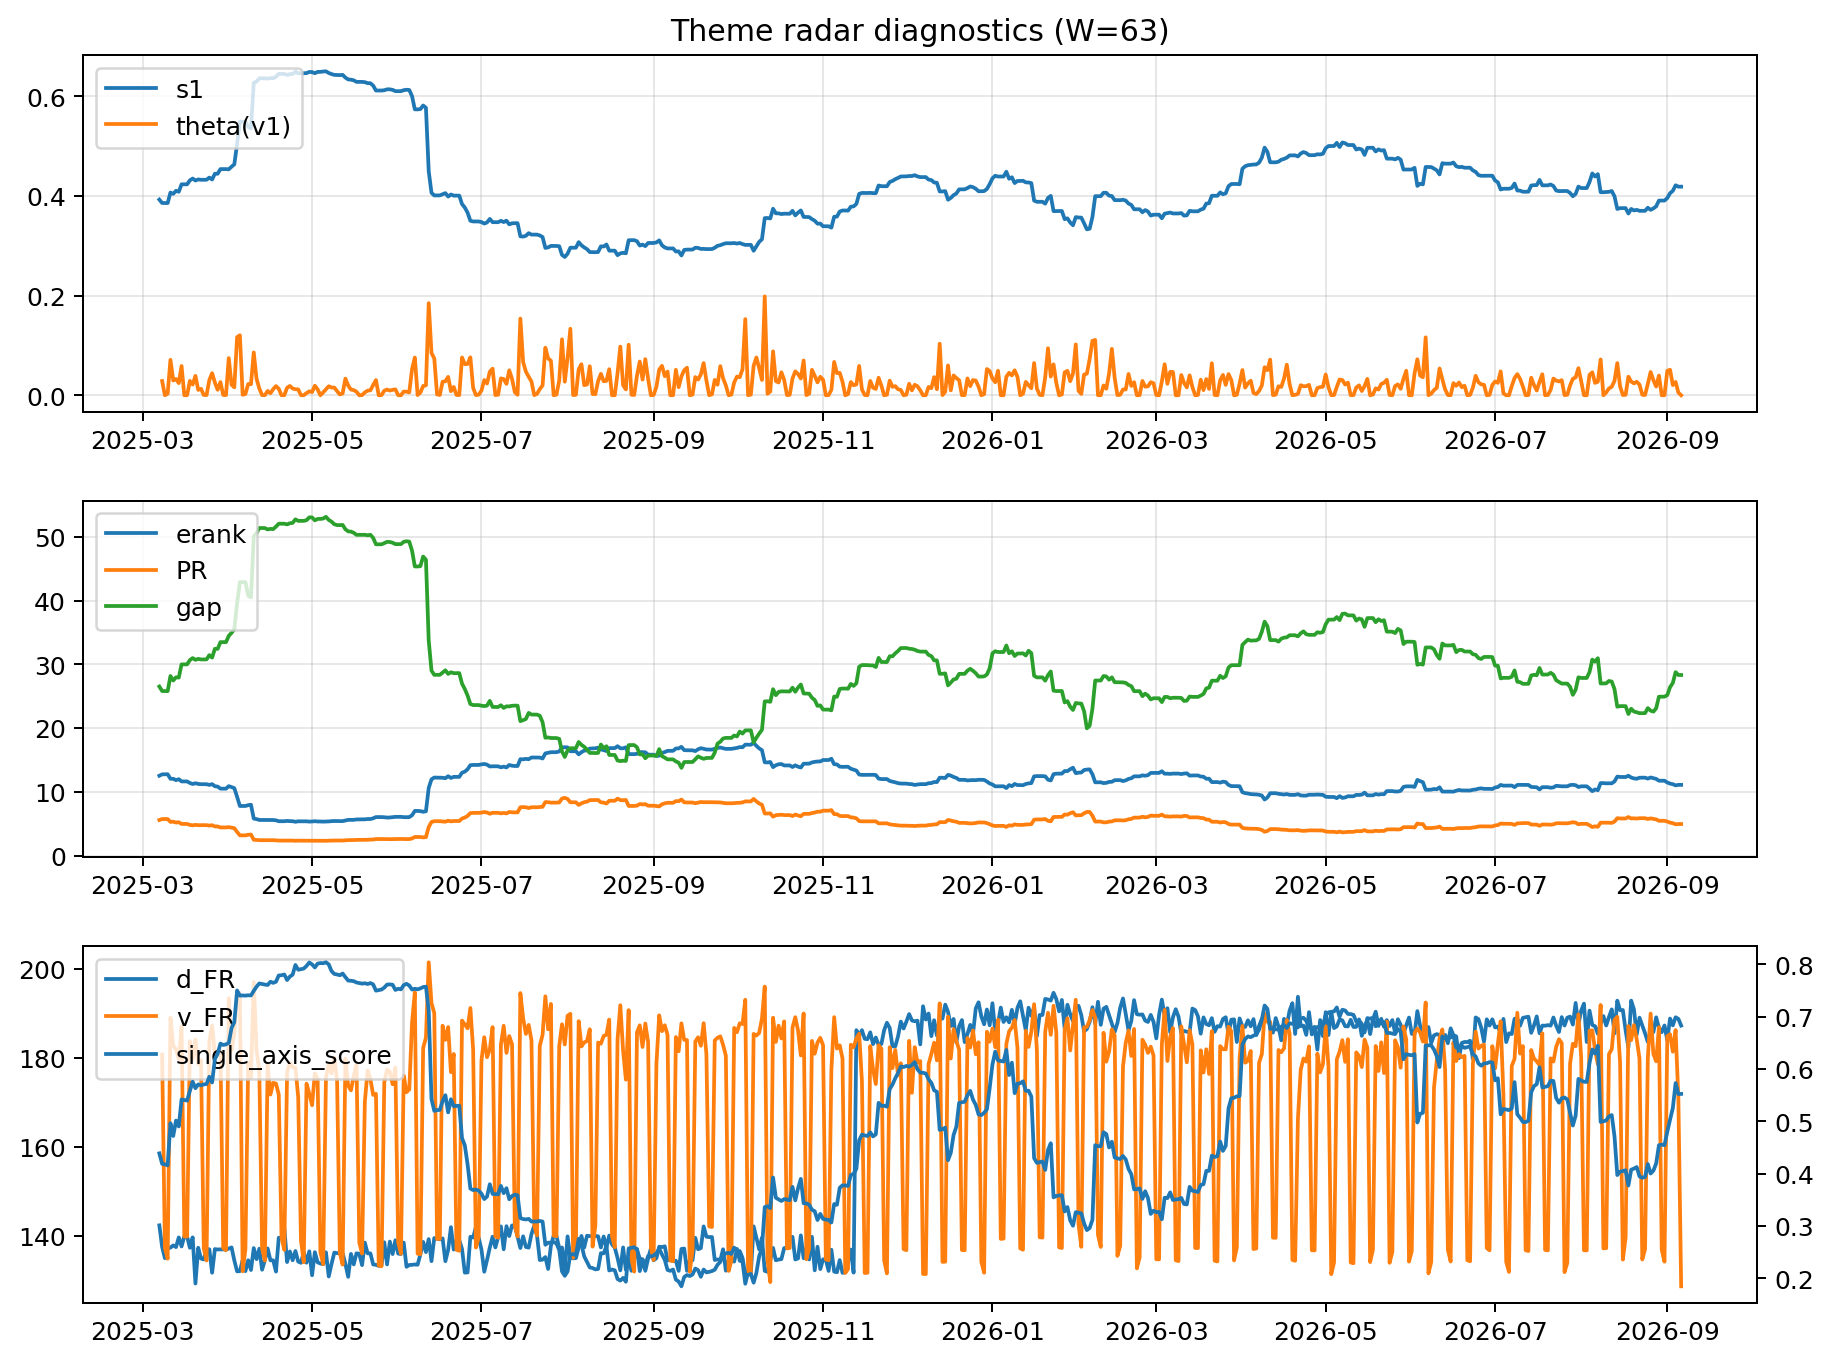
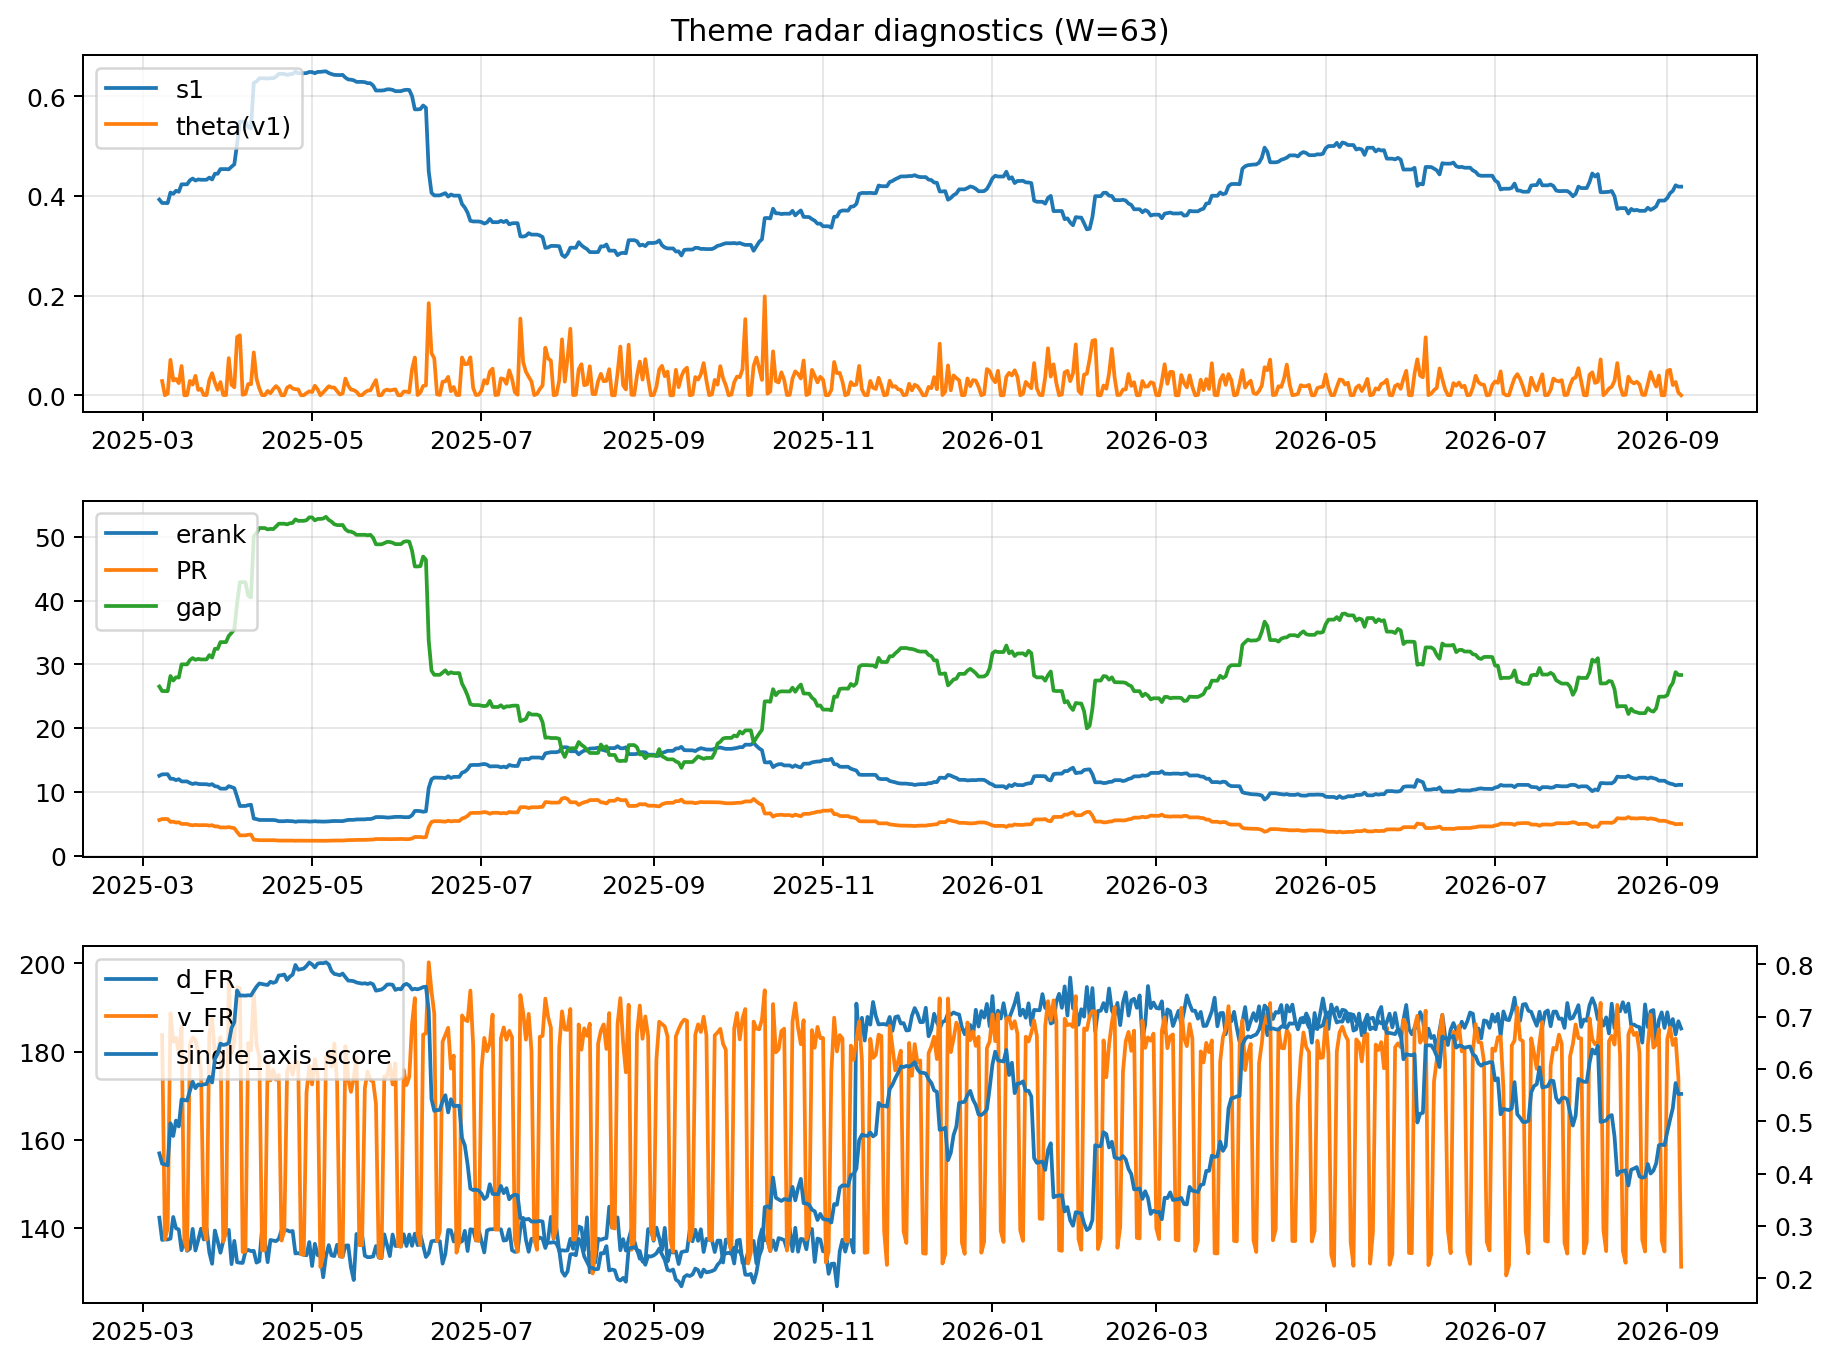
log: 2026-09-06 | sha256:4cf50a2e308836dbc48445426f1648c3ec8e36e9216f673b7a0ab2a0f61a61ea

diff --git a/logs/2026-09-06.md b/logs/2026-09-06.md
@@ -3,43 +3,43 @@
 ![diagnostic W63](../assets/diagnostic/2026-09-06_W63.png)
 
 ## Leaders (v1) — W=63
-- **Nuclear_Uranium** (0.0884435089525409)
-- Semis (0.067931915359482)
-- Quantum (0.0624525389979722)
+- **Nuclear_Uranium** (0.0884435093015129)
+- Semis (0.0679319164227954)
+- Quantum (0.0624525374415206)
 
 ## Challengers — W=63
-**v2:** Rates (0.093168255340313), Semis (0.0786336790402249), Grid_Power (0.0629135273005289)
-**v3:** Genomics_Bio (0.0905224015569938), Crypto (0.0899400462699587), Metals (0.0761947168597265)
+**v2:** Rates (0.0931682491762034), Semis (0.0786336710302143), Grid_Power (0.0629135286537121)
+**v3:** Genomics_Bio (0.0905223971303889), Crypto (0.0899400275894541), Metals (0.0761947075416778)
 
 ## Migration (20D slope) — W=63
 **Top risers:**
-- axis_Rates: 0.0007456879216744
-- axis_Genomics_Bio: 0.0004320920883385
-- axis_DataCenter_Infra: 0.0003380986605601
-- axis_Software_Cloud: 0.000328681760165
-- axis_Space: 0.0003226939690313
-- axis_Commodities: 0.000275209971575
-- axis_Crypto: 0.0001772456716016
-- axis_Drones_Autonomy: 0.0001515309527806
-- axis_Metals: 0.0001139742251837
-- axis_Sector_Fin: 9.525095421784346e-05
+- axis_Rates: 0.0007456899991309
+- axis_Genomics_Bio: 0.0004320920363966
+- axis_DataCenter_Infra: 0.0003380986764784
+- axis_Software_Cloud: 0.0003286817736228
+- axis_Space: 0.0003226940274457
+- axis_Commodities: 0.0002752099438113
+- axis_Crypto: 0.0001772457384148
+- axis_Drones_Autonomy: 0.0001515309068382
+- axis_Metals: 0.000113974238926
+- axis_Sector_Fin: 9.525097689166872e-05
 
 **Top fallers:**
-- axis_Robotics: -0.0001628709875982
-- axis_Equity_ExUS: -0.0001660417038889
-- axis_Equity_US: -0.0001670365294852
-- axis_MegaCap_AI: -0.000167796122596
-- axis_Nuclear_Uranium: -0.0001920984812742
-- axis_Sector_RealEstate: -0.0001991296263266
-- axis_Sector_Health: -0.0002084323027631
-- axis_Critical_Minerals: -0.0002567618477787
-- axis_Grid_Power: -0.0002969588800416
-- axis_Semis: -0.000448651110253
+- axis_Robotics: -0.0001628710317661
+- axis_Equity_ExUS: -0.0001660417424794
+- axis_Equity_US: -0.0001670365539965
+- axis_MegaCap_AI: -0.0001677961221162
+- axis_Nuclear_Uranium: -0.0001920985672222
+- axis_Sector_RealEstate: -0.0001991296796569
+- axis_Sector_Health: -0.00020843233701
+- axis_Critical_Minerals: -0.000256761927353
+- axis_Grid_Power: -0.0002969589622639
+- axis_Semis: -0.0004486512253833
 
 ## Risk line (W=63)
-- s1: 0.4185196875239567
-- theta_v1: 1.3326021061317625e-05
-- v_FR: 128.62041999931714
+- s1: 0.4185196898818255
+- theta_v1: 1.3325904423423268e-05
+- v_FR: 131.11655932093595
 - single_axis_score: 0.5522768670309655
 
 ## Interpretation
@@ -48,7 +48,7 @@
 - Action: Tomorrow watchlist: Rates, Genomics_Bio, DataCenter_Infra, Software_Cloud, Space + v2_top1=Rates
 - Action: Hedge note: normal correlation stability.
 
-- Percentiles (W=63 history): vfr_pct=0.00, theta_pct=0.00, s1_pct=0.56, score_pct=0.58.
+- Percentiles (W=63 history): vfr_pct=0.01, theta_pct=0.00, s1_pct=0.56, score_pct=0.58.
 
 ---
[2 lines of base64/hex data omitted]
